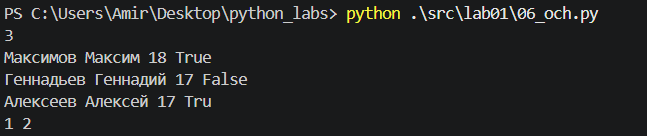
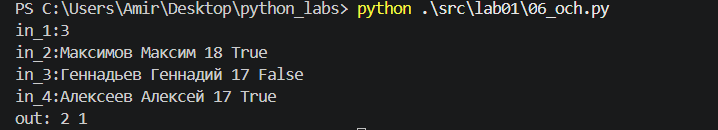
v

diff --git a/src/lab02/4.py b/src/lab02/4.py
@@ -1,0 +1,17 @@
+def format_record(rec):
+    fio, group, gpa = rec
+    parts = fio.split()
+    if len(parts) < 2 or len(parts) > 3:
+        raise ValueError("ФИО должно содержать 2 или 3 слова")
+    group = " ".join(group.split())
+    if group == "":
+        raise ValueError("Группа не может быть пустой")
+    if not isinstance(gpa, (int, float)):
+        raise TypeError("GPA должен быть числом")
+    if not (0.0 <= gpa <= 5.0):
+        raise ValueError("GPA должен быть от 0 до 5")
+    surname = parts[0]
+    initials = ""
+    for name in parts[1:]:
+        initials += name[0].upper() + "."
+    return f"{surname} {initials}, гр. {group}, GPA {gpa:.2f}"

diff --git a/src/lab01/06_och.py b/src/lab01/06_och.py
@@ -1,11 +1,11 @@
-n = int(input())
+n = int(input("in_1:"))
 ochniy = 0
 zaochniy = 0
-for _ in range(n):
-    line = input().split()
-    form = line[-1]          
+for i in range(n):
+    line = input(f"in_{i + 2}:").split()
+    form = line[-1]
     if form == 'True':
         ochniy += 1
     else:
         zaochniy += 1
-print(ochniy, zaochniy)
+print("out:", ochniy, zaochniy)

diff --git a/src/lab02/3.py b/src/lab02/3.py
@@ -1,0 +1,1 @@
+def col_sums(mat):
